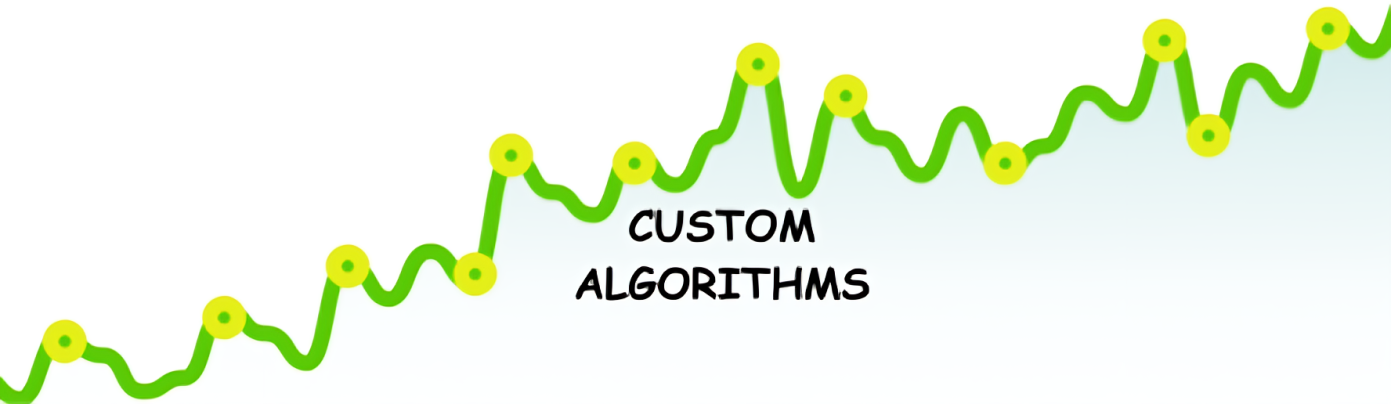
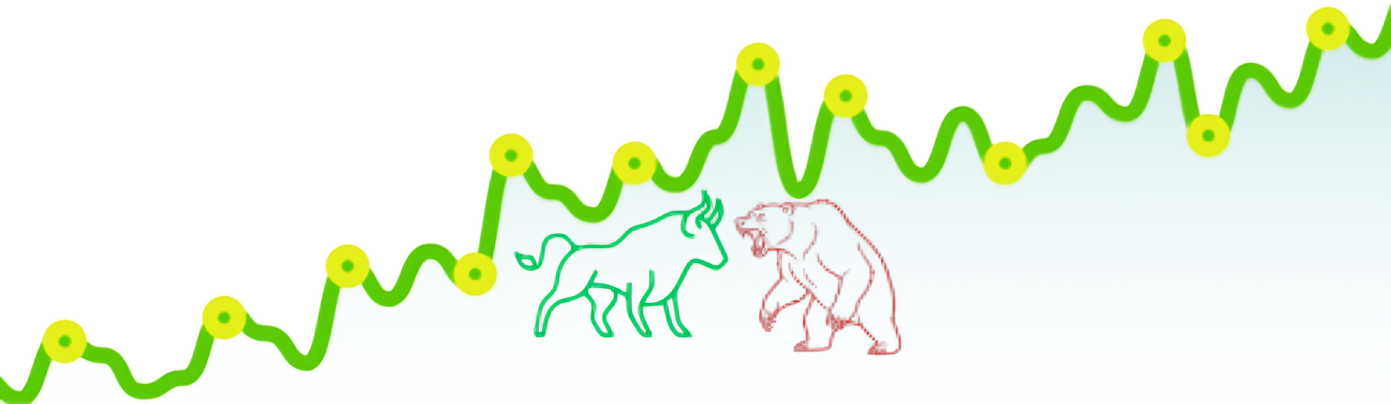
UI CHANGES

Changed region(s): [[0.371, 0.4752, 0.6492, 0.8911]]

diff --git a/src/components/dashboard/FeatureGrid.tsx b/src/components/dashboard/FeatureGrid.tsx
@@ -57,7 +57,7 @@ export default function FeatureGrid() {
     },
     {
       title: 'Custom Algorithms',
-      icon: '/images/CustomAlgo.png',
+      icon: '/images/customAlgo.svg',
       href: '/custom-algorithms',
       color: 'purple' as const,
     }
